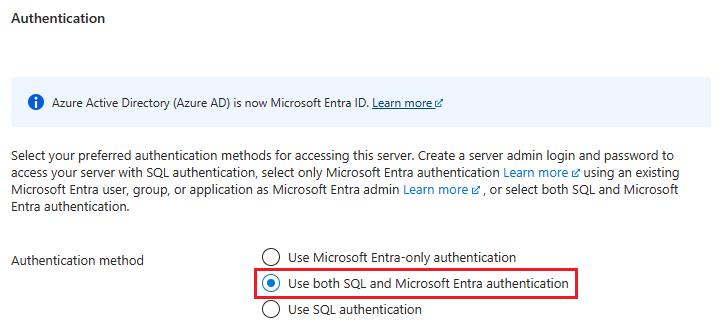
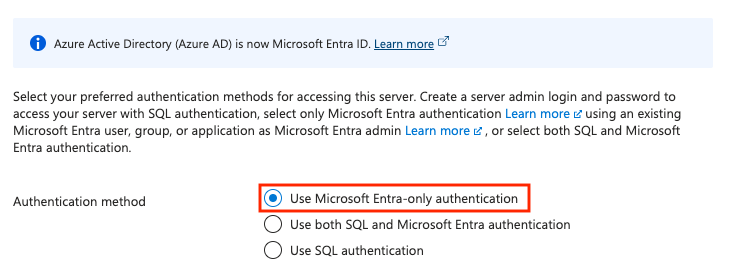
ch2

diff --git a/docs/2-create-azure-SQL-database.md b/docs/2-create-azure-SQL-database.md
@@ -50,7 +50,7 @@ The next section of the workshop will be using an Azure SQL Database. To move ou
 
     ![A picture of entering a server name and choosing a Location using the dropdown menu on the Create SQL Database Server page](./media/ch2/deploy1j.png)
 
-1. Now, in the **Authentication** section, select the **radio button** for **Use both SQL and Microsoft Entra authentication**.
+1. Now, in the **Authentication** section, select the **radio button** for **Use Microsoft Entra-only authentication**.
 
     ![A picture of selecting the radio button for Use both SQL and Microsoft Entra authentication in the authentication section](./media/ch2/deploy1k.png)
 
@@ -62,11 +62,9 @@ The next section of the workshop will be using an Azure SQL Database. To move ou
 
     ![A picture of select your account as the Entra ID admin](./media/ch2/deploy1m.png)
 
-1. Set the **Server admin login** as sqladmin and then enter a strong password for the password fields.
-
-    ![A picture of setting the Server admin login as sqladmin and then entering a strong password for the password fields](./media/ch2/deploy1n.png)
-
 1. Click the **OK** button on the bottom left of the page.
+
+    ![A picture of clicking the OK button at the bottom of the authentication page](./media/ch2/deploy1m1.png)
 
 1. Back on the **Create a SQL Database** page, verify the values you entered and that the free database offer has been applied. 
 
@@ -84,7 +82,7 @@ The next section of the workshop will be using an Azure SQL Database. To move ou
 
     ![A picture of the Use existing data toggle](./media/ch2/deploy11c.png)
 
-    to set it to **sample** by clicking on it.
+    to set it to **Sample** by clicking on it.
 
     ![A picture of clicking on the sample option of the Use existing data toggle](./media/ch2/deploy11d.png)
 
@@ -134,128 +132,24 @@ The next section of the workshop will be using an Azure SQL Database. To move ou
 
     ![A picture of clicking the save button in the lower left of the page](./media/ch2/deploy1x.png)
 
-### Create a connection profile to the free Azure SQL Database
+### Connect to the free Azure SQL Database in the Azure Portal
 
-1. Using the extensions panel, select the **SQL Server connections extension**
+1. Using the menu on the left side, open the menu items under **Settings** if not alreay opened. Then select **SQL Databases** by clicking on it.
 
-    ![A picture of selecting the SQL Server connection extension in code spaces](./media/ch2/deploy1.png)
+    ![A picture of clicking the SQL Databases option under settings](./media/ch2/deploy2a.png)
 
-    and create a new connection by clicking the plus sign on the upper right in the extension.
+1. Next, on the main page, find the FreeDB you created and click on it naviage to the database details page.
 
-    ![A picture of creating a new connection by clicking the plus sign on the upper right in the extension](./media/ch2/deploy2.png)
+    ![A picture of clicking the FreeDB SQL Databases](./media/ch2/deploy2b.png)
 
-1. Use the following values for the Create Connection dialog boxes:
+1. Using the menu options on the left side, find and click on **Query editor (preview)**.
 
-    * Use the name of the server you created in the previous section as the server name, then press Enter.
-        ![A picture of using the free sql db server name as the server name](./media/ch2/deploy3.png)
+    ![A picture of clicking on Query editor (preview) in the left menu](./media/ch2/deploy2c.png)
 
-    * Use the name of the database you created for the free Azure SQL Database as the database name, then press Enter.
-        ![A picture of using the free database as the database name](./media/ch2/deploy4.png)
+1. Next, click on the blue **Continue as ...** (with ... being the user you set as the database admin upon creation) in the Microsoft Entra authentication section.
 
-    * In the Authentication Type dialog box, select “SQL Login“.
-        ![A picture of using SQL Login as as the Authentication Type](./media/ch2/deploy5.png)
+    ![A picture of clicking on Microsoft Entra authentication continue as user blue button](./media/ch2/deploy2d.png)
 
-    * In the User name (SQL Login) dialog box, enter **sqladmin**, then press Enter.
-        ![A picture of entering sqladmin as the database user](./media/ch2/deploy6.png)
+1. The Query Editor will be used in the following chapters for running T-SQL code and procedures.
 
-        and provide the password you used when creating the free Azure SQL Database, then press Enter.
-        ![A picture of entering the password for the database user](./media/ch2/deploy7.png)
-
-    * Select **Yes** so that the password is saved (encrypted) on the connection profile
-        ![A picture of selecting Yes so that the password is saved on the connection profile](./media/ch2/deploy8.png)
-
-    * Provide the profile name of "Free Azure Database" in the last dialog box for this step. Press Enter to finish the connection profile process.
-        ![A picture of using Free Azure Database as the connection profile name](./media/ch2/deploy9.png)
-
-    * After pressing Enter and the connection profile is verified, a warning box **may** appear on the lower right of the screen. This warning is indicating that due to new security features within the database, you need to enable the self-signed certificate.
-        Click the Enable Trust Server Certificate green button to continue.
-
-        ![A picture of clicking the Enable Trust Server Certificate green button to continue](./media/ch2/deploy10.png)
-
-    * There is now a connection to the Azure SQL Database running in the cloud in the code space you can use for deployment and further development.
-
-        ![A picture of code spaces indicating a successful connection](./media/ch2/deploy11.png)
-
-### Publish to an Azure SQL Database
-
-1. To publish the database code to the Free Azure SQL Database, **right click** on the project and select **Publish**.
-
-    ![A picture of right clicking the project name and selecting Publish](./media/ch2/deploy16.png)
-
-1. Select "Publish to an existing Azure SQL logical server" on the first step
-
-    ![A picture of selecting Publish to an existing Azure SQL logical server in the publish database modal flow](./media/ch2/deploy17.png)
-
-1. Next, select "Don't use profile"
-
-    ![A picture of selecting Don't use profile in the publish database modal flow](./media/ch2/deploy18.png)
-
-1. Choose the **Free Azure Database** connection you created previously for the connection profile step
-
-    ![A picture of selecting the Free Azure Database connection in the publish database modal flow](./media/ch2/deploy19.png)
-
-1. Choose **freeDB** as the database.
-
-    ![A picture of selecting the database named freeDB in the publish database modal flow](./media/ch2/deploy20.png)
-
-1. And finally, for the action, choose **Publish**.
-
-    ![A picture of selecting Publish in the publish database modal flow](./media/ch2/deploy21.png)
-
-1. Once the dacpac is published into the database,
-
-    ![A picture of the dacpac being published to the database successfully](./media/ch2/deploy22.png)
-
-    you can go to the SQL Server Connection extension, reload the database objects by right clicking it and selecting refresh,
-
-    ![A picture of reloading the database objects by right clicking it and selecting refresh in the SQL Server extension](./media/ch2/deploy23.png)
-
-     then open the Tables and Programmability folders to see the deployed objects.
-
-    ![A picture of the Tables and Programmability folders to and the deployed objects](./media/ch2/deploy24.png)
-
-### Verify the deployed database objects and data
-
-1. While still on the **SQL Server Connections extension**, right click the database profile name,**Free Azure Database**, and select **New Query**. This will bring up a new query sheet.
-
-    ![A picture of right clicking the Free Azure Database profile name and selecting New Query](./media/ch2/deploy25.png)
-
-1. Run the following code in the query sheet:
-
-    ```SQL
-    select * from dbo.person;
-
-    select p.person_name, a.address
-    from dbo.person p inner join dbo.[address] a
-    on p.person_id = a.person_id;
-    
-    select * from dbo.todo;
-    go
-    ```
-
-1. You can also test out the stored procedure with the following code:
-
-    ```SQL
-    exec get_person_by_pet 'Dogs';
-    ```
-
-## Would you like to know more?
-
-### Azure SQL migration extension for Azure Data Studio
-
-The Azure SQL migration extension for Azure Data Studio enables you to assess, get right-sized Azure recommendations and migrate your SQL Server databases to Azure. You can use the Azure SQL Migration extension to assess SQL Server databases running on Windows or Linux.
-
-The Azure SQL Migration extension for Azure Data Studio offers these key benefits:
-
-* A responsive UI for an end-to-end migration experience. The extension starts with a migration readiness assessment and SKU recommendation (preview) (based on performance data).
-* An enhanced assessment mechanism that can evaluate SQL Server instances. The extension identifies databases that are ready to migrate to Azure SQL targets.
-* An SKU recommendation engine that collects performance data from the on-premises source SQL Server instance and then generates right-sized SKU recommendations based on your Azure SQL target.
-* A reliable Azure service powered by Azure Database Migration Service that orchestrates data movement activities to deliver a seamless migration experience.
-* You can run your migration online (for migrations that require minimal downtime) or offline (for migrations where downtime persists throughout the migration) depending on your business requirements.
-* You can configure a self-hosted integration runtime to use your own compute resources to access the source SQL Server instance backup files in your on-premises environment.
-* Provides a secure and improved user experience for migrating TDE databases and SQL/Windows logins to Azure SQL.
-
-### Proof of concepts and samples
-
-* [SQL Server migration one-click PoC to Azure SQL](https://aka.ms/SQLMigrationPoC)
-* [Migrate databases at scale using Azure Database Migration automation](https://github.com/Azure-Samples/data-migration-sql)
+    ![A picture of the query editor](./media/ch2/deploy2e.png)
